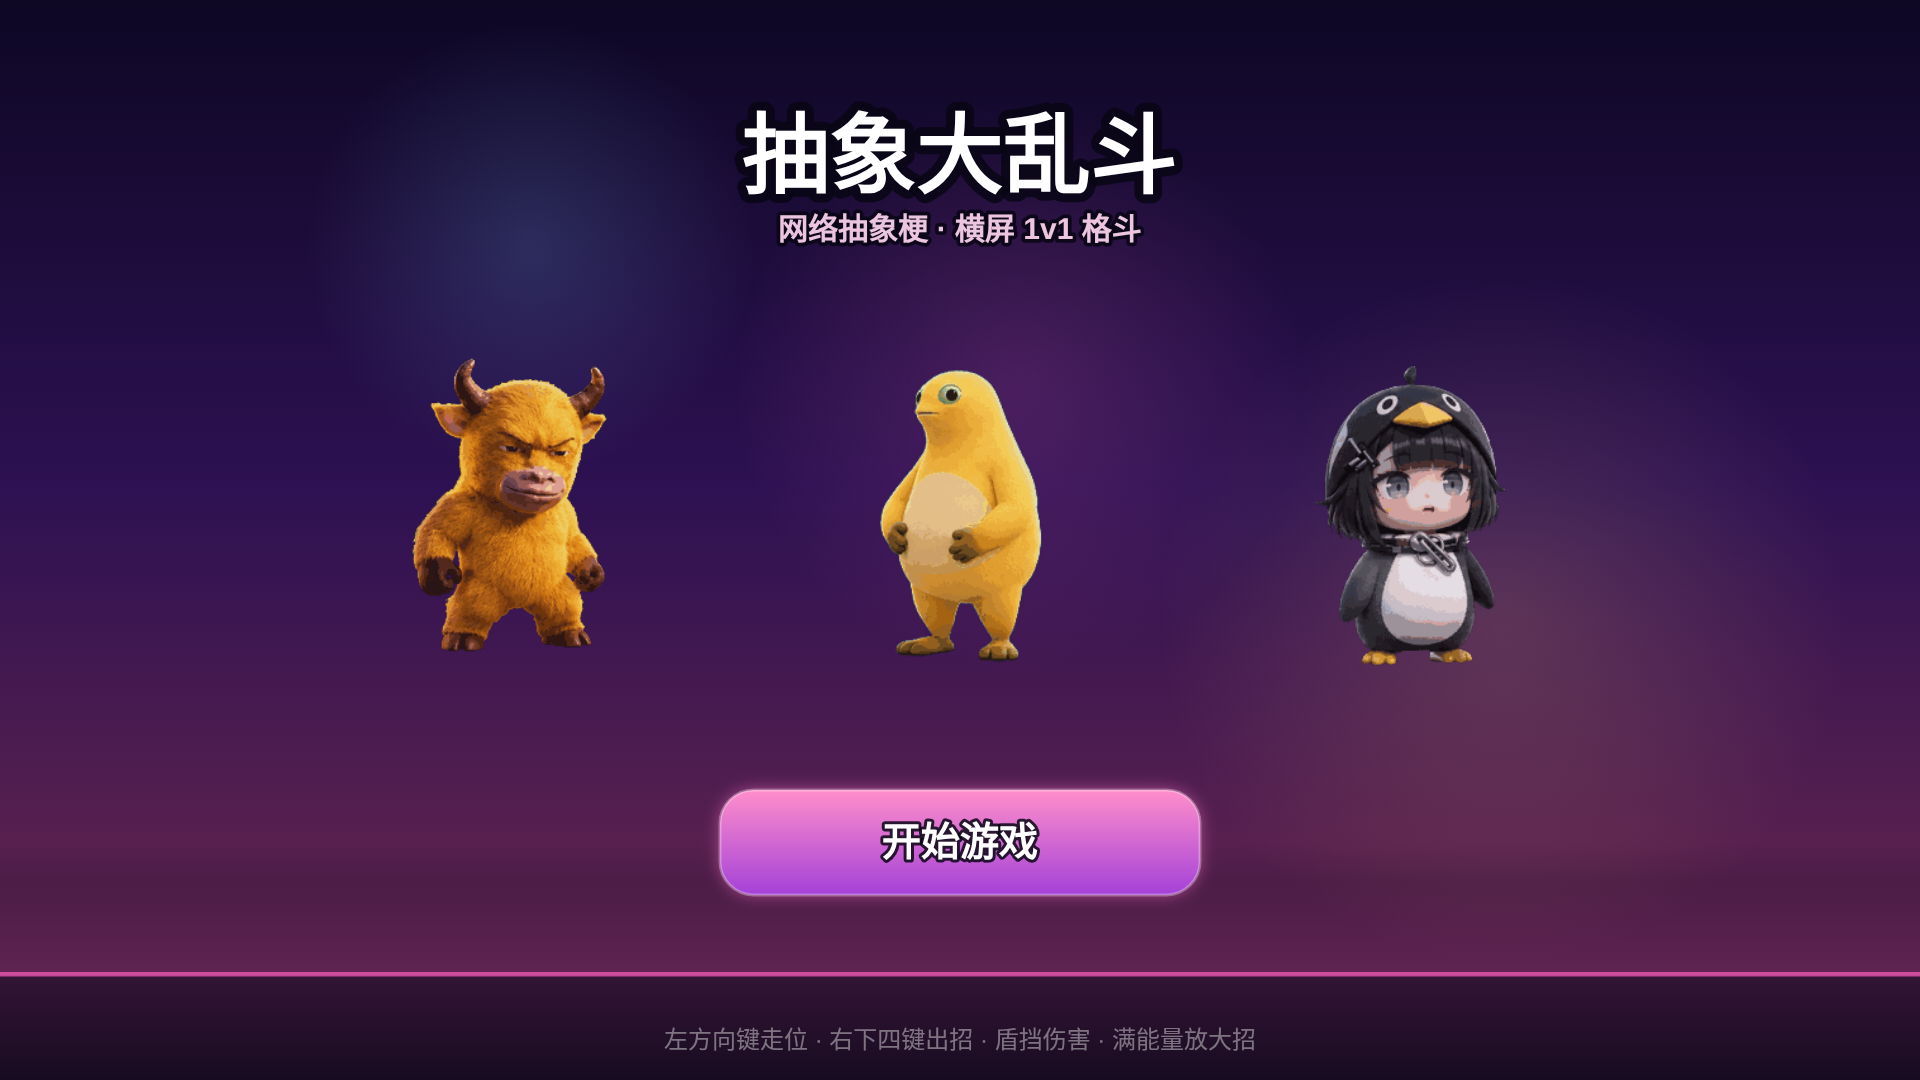
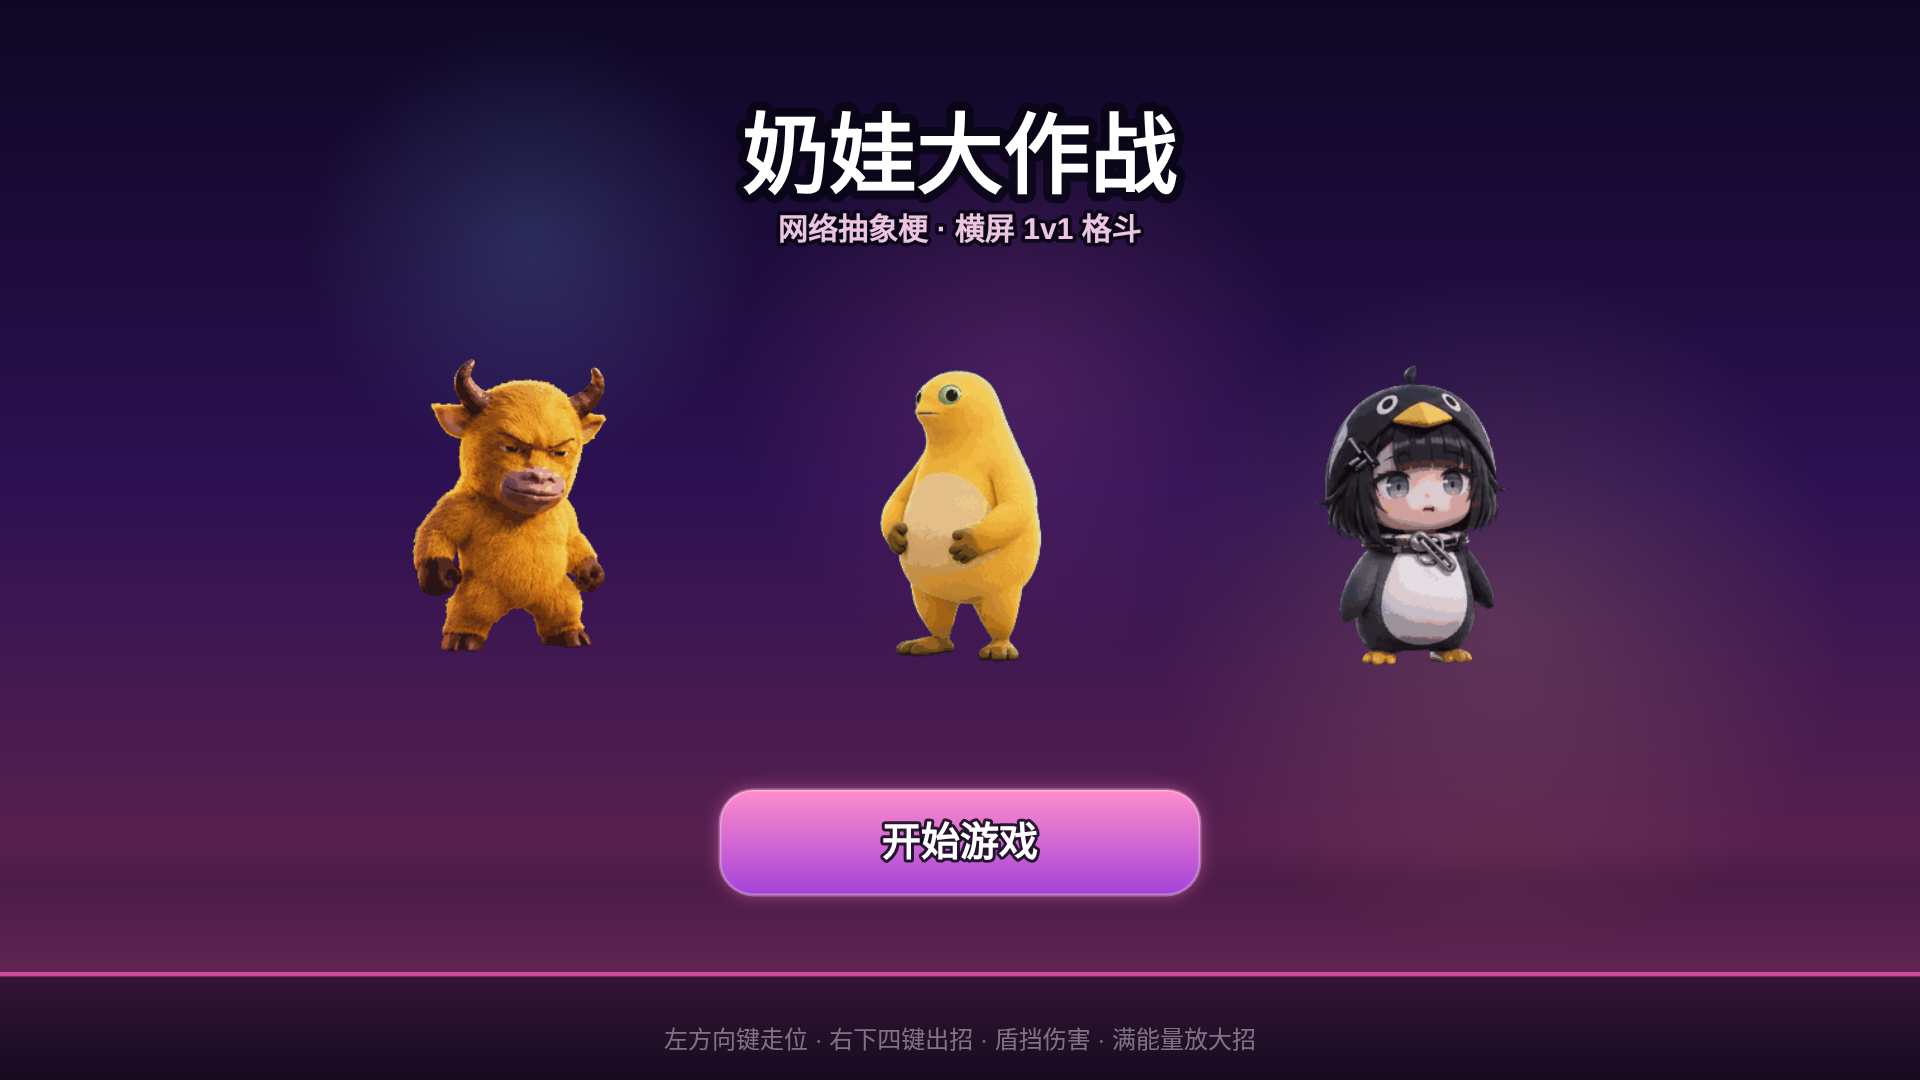
refactor(fighter): 游戏名改为「奶娃大作战」
原名「抽象大乱斗」太泛，改用英雄主角命名，辨识度更高。

- config.ts: gameName 改「奶娃大作战」（标题页与结算页都会显示）
- index.html: <title> 同步
- package.json / README / docs 同步改名
- 重新生成 8 张提审截图，标题页与结算页已是新名字

Changed region(s): [[0.375, 0.0917, 0.625, 0.1833]]

diff --git a/games/fighter/src/config.ts b/games/fighter/src/config.ts
@@ -6,7 +6,7 @@ export const GAME_CONFIG = {
    * 小游戏名称，必须与平台后台「基本设置 → 名称」逐字一致。
    * 标题页会显示它，提审截图里能看到名字才符合审核要求。
    */
-  gameName: '抽象大乱斗',
+  gameName: '奶娃大作战',
 
   /** 微信小游戏 · 流量主激励视频广告位 ID（形如 adunit-xxxxxxxx）。 */
   wxRewardedAdUnitId: '',

diff --git a/games/fighter/index.html b/games/fighter/index.html
@@ -3,7 +3,7 @@
   <head>
     <meta charset="utf-8" />
     <meta name="viewport" content="width=device-width, initial-scale=1, maximum-scale=1, user-scalable=no" />
-    <title>抽象大乱斗</title>
+    <title>奶娃大作战</title>
     <style>
       html,
       body {

diff --git a/README.md b/README.md
@@ -7,7 +7,7 @@
 | 游戏 | 目录 | 玩法 | 状态 |
 |---|---|---|---|
 | 跳跳小光 | [games/jump](games/jump) | 按住蓄力、松开跳跃，落空可看广告复活 | 微信小游戏已上线 `1.0.2`（2026-11-10） |
-| 抽象大乱斗 | [games/fighter](games/fighter) | 网络抽象梗 1v1 横屏格斗，3 位英雄、单机 AI 对战 | 开发中（浏览器可玩，待提审） |
+| 奶娃大作战 | [games/fighter](games/fighter) | 网络抽象梗 1v1 横屏格斗，3 位英雄、单机 AI 对战 | 开发中（浏览器可玩，待提审） |
 
 ## 文档
 
@@ -18,7 +18,7 @@
 | [docs/TECH-STACK.md](docs/TECH-STACK.md) | Cocos Creator 3.x 与原生 TS + Canvas 的选型对比与结论 |
 | [docs/LAUNCH.md](docs/LAUNCH.md) | 抖音上架 12 步详解（含官方链接）、提审自查清单 |
 | [docs/ADS.md](docs/ADS.md) | 广告接入说明：流量主开通、三种广告 API、合规红线、错误码 |
-| [games/fighter/docs/DESIGN.md](games/fighter/docs/DESIGN.md) | **抽象大乱斗设计稿**：英雄、帧数据、战斗状态机、AI、界面布局 |
+| [games/fighter/docs/DESIGN.md](games/fighter/docs/DESIGN.md) | **奶娃大作战设计稿**：英雄、帧数据、战斗状态机、AI、界面布局 |
 | [games/fighter/docs/HERO_PROMPTS.md](games/fighter/docs/HERO_PROMPTS.md) | 英雄立绘的 AI 出图提示词与切图规范 |
 
 ## 仓库结构
@@ -43,7 +43,7 @@ DouyinGame/
 │   │   ├── project.wx.config.json    微信项目配置
 │   │   ├── project.config.json       抖音项目配置
 │   │   └── tsconfig.json
-│   └── fighter/             抽象大乱斗（结构同上，另含）
+│   └── fighter/             奶娃大作战（结构同上，另含）
 │       ├── docs/            DESIGN.md 设计稿、HERO_PROMPTS.md 出图提示词
 │       ├── src/assets/      manifest.ts 素材清单、loader.ts 加载器
 │       ├── src/generated/   measure_hero.py 量出的立绘包围盒
@@ -59,7 +59,7 @@ npm install            # 根目录一次装齐所有依赖
 npm run check          # 所有游戏：类型检查 + 逻辑测试
 npm run build          # 所有游戏：产出 dist/web、dist/wx、dist/douyin
 npm run dev                  # 启动 games/jump 的浏览器预览（http://localhost:5173）
-npm run dev   -w games/fighter  # 抽象大乱斗预览（http://localhost:5174）
+npm run dev   -w games/fighter  # 奶娃大作战预览（http://localhost:5174）
 ```
 
 构建产物：
@@ -78,7 +78,7 @@ npm run check -w games/jump
 npm run build -w games/jump
 ```
 
-抽象大乱斗的提审截图由脚本自动生成（**脚本自己不会起 dev server**，必须先在另一个终端跑 5174）：
+奶娃大作战的提审截图由脚本自动生成（**脚本自己不会起 dev server**，必须先在另一个终端跑 5174）：
 
 ```bash
 npm run dev   -w games/fighter                  # 终端 A：http://localhost:5174

diff --git a/games/fighter/docs/DESIGN.md b/games/fighter/docs/DESIGN.md
@@ -1,4 +1,4 @@
-# 抽象梗格斗 · 设计方案
+# 奶娃大作战 · 设计方案
 
 > 项目代号 `fighter`，第二款游戏。定位：**横屏 1v1 横版格斗**，抖音网络抽象梗英雄，单机可玩 + 后续联网。
 > 首期只做 3 位英雄：**牛来 / 咕咕嘎嘎 / 奶娃**。
@@ -9,9 +9,9 @@
 
 第一款游戏「跳跳小光」已经跑通「开发 → 提审 → 上线 → 广告变现」全链路，但它是个纯手感小游戏，留存和话题性都有限。
 
-抽象梗格斗的差异点：
+奶娃大作战的差异点：
 
-| 维度 | 跳跳小光 | 抽象梗格斗 |
+| 维度 | 跳跳小光 | 奶娃大作战 |
 |---|---|---|
 | 用户动机 | 打发时间 | 认梗、玩梗、截图分享 |
 | 传播方式 | 靠分享复活 | 角色本身自带传播（「这游戏有牛来」） |

diff --git a/games/fighter/docs/HERO_PROMPTS.md b/games/fighter/docs/HERO_PROMPTS.md
@@ -1,4 +1,4 @@
-# 抽象梗格斗 · 英雄素材 AI 出图提示词
+# 奶娃大作战 · 英雄素材 AI 出图提示词
 
 > 给 GPT / DALL·E / 即梦 / 豆包 用的全套提示词。
 > 目标：8 位英雄各出 **1 张半身像（UI/VS/图鉴）** + **1 张 6 帧动作表（战斗用）**。
